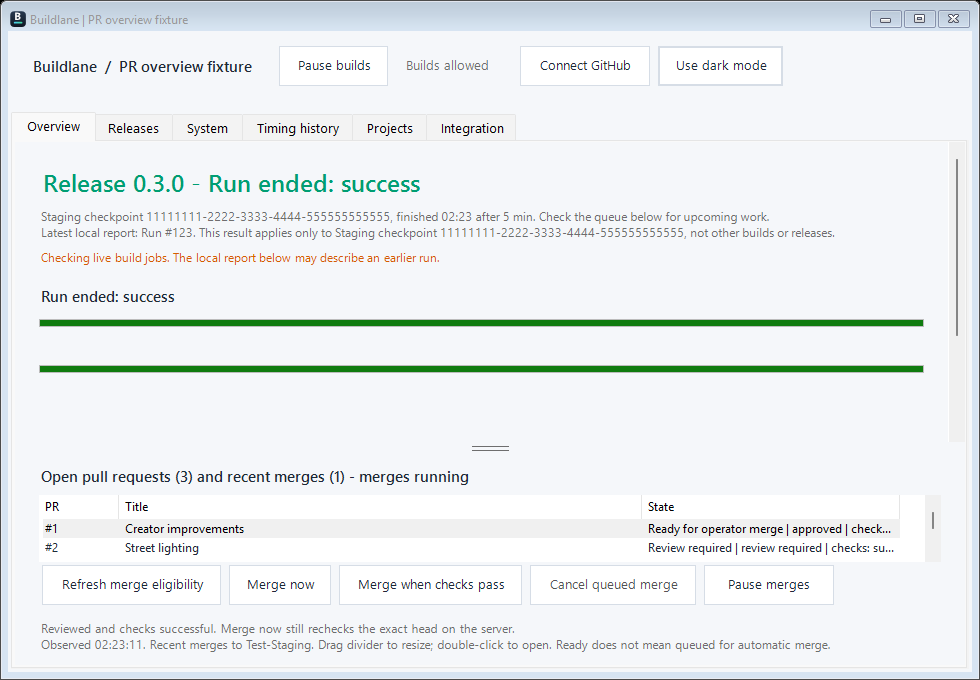
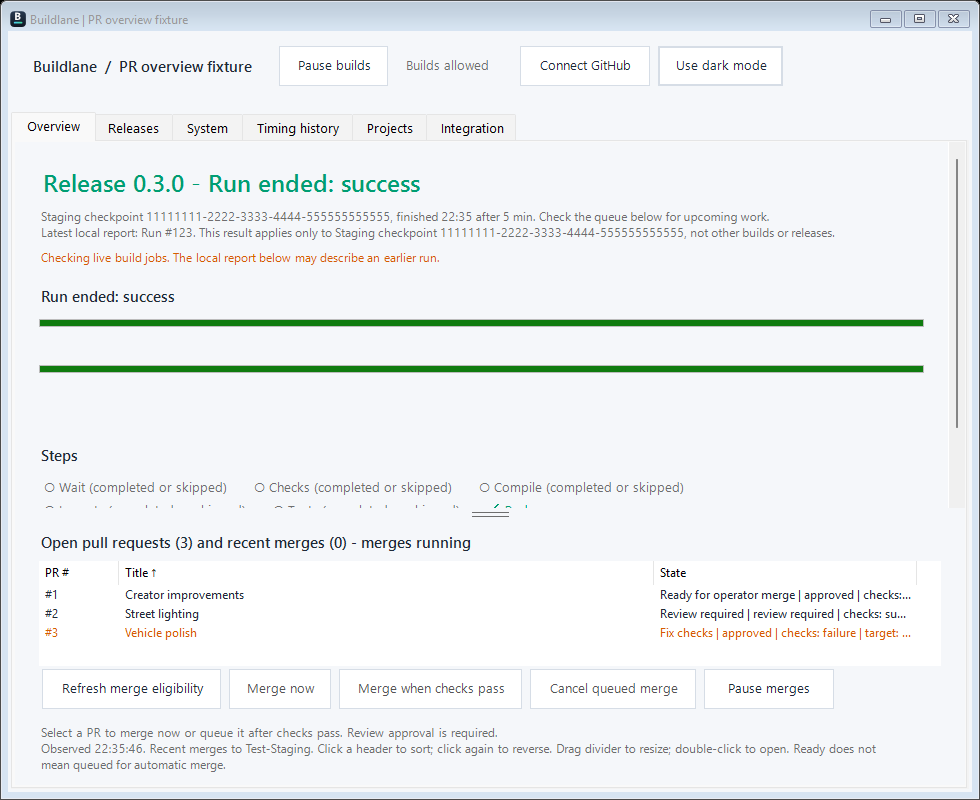
Sort the PR queue by clicked column headers

diff --git a/README.md b/README.md
@@ -23,6 +23,7 @@ Made by Stonefletcher Productions LLC. The source is available in this repositor
 - **Updates without flashing** — unchanged status leaves overview text, row visibility and layout untouched while live polling continues.
 - **Keeps open PRs visible after builds finish** — independently reads paginated GitHub PRs and recent merges to the integration branch. Shows drafts, review requirements, failed checks, conflicts and operator-ready changes; a ready row does not claim automatic merging. Results refresh every 30 seconds and retain clearly marked last-known evidence on errors.
 - **Merges reviewed changes through the controller** — select a PR, refresh merge eligibility, then merge now or queue that exact head until checks pass. Cancel queued merge removes that request without cancelling a build. Missing review, stale data and unsupported backends keep controls disabled.
+- **Sorts the queue by PR #, Title, or State** - click a column header to sort ascending, then click again for descending. The arrow shows the direction, and the display keeps its order as PRs refresh.
 - **Shows the queue in human words** — "Waiting for v0.2.6 to finish", "held: main is red", "waits for the next batch:
   it conflicts with #408". Waiting is grey; a real blocker is orange; work in progress is blue.
 - **Pauses builds on this PC** — including the option to stop the build already running. The hosted merge queue has separate **Pause merges / Resume merges** controls with confirmed server state.

diff --git a/docs/GETTING-STARTED.md b/docs/GETTING-STARTED.md
@@ -77,3 +77,7 @@ Exports contain project settings, not BuildLane's separately stored token. Revie
 - Encrypted app credentials: `%APPDATA%\Buildlane\<owner_repo>\github.token`
 
 Reinstalling the app preserves saved profiles. Back up the profile folder before changing machines; encrypted tokens must be reconnected on the new machine.
+
+### Sorting the queue
+
+Click the **PR #**, **Title**, or **State** column header to sort the queue. The first click sorts ascending; another click on the same header sorts descending. An arrow marks the active column and direction. PR numbers sort numerically, and your chosen order and selected PR survive queue refreshes. Sorting changes the display only; it does not change which PR the controller merges next.
